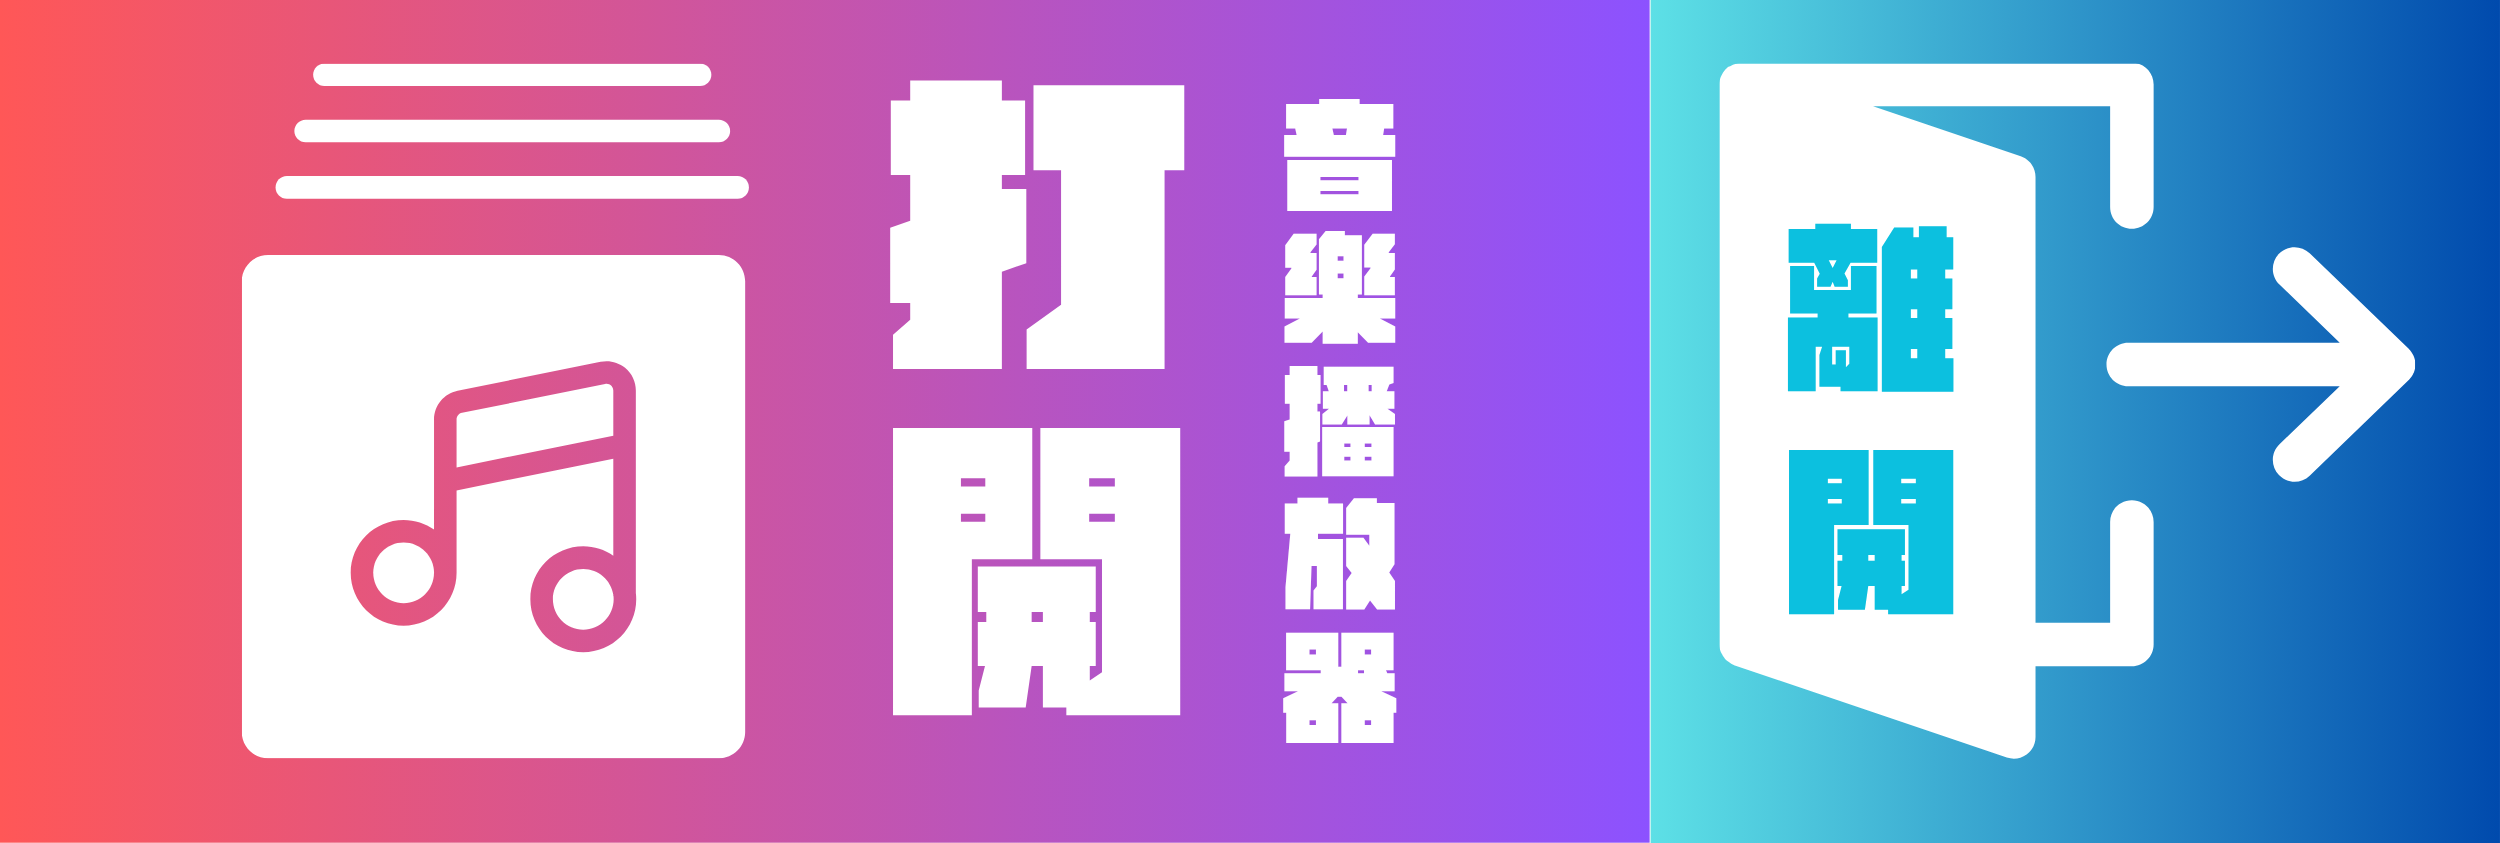
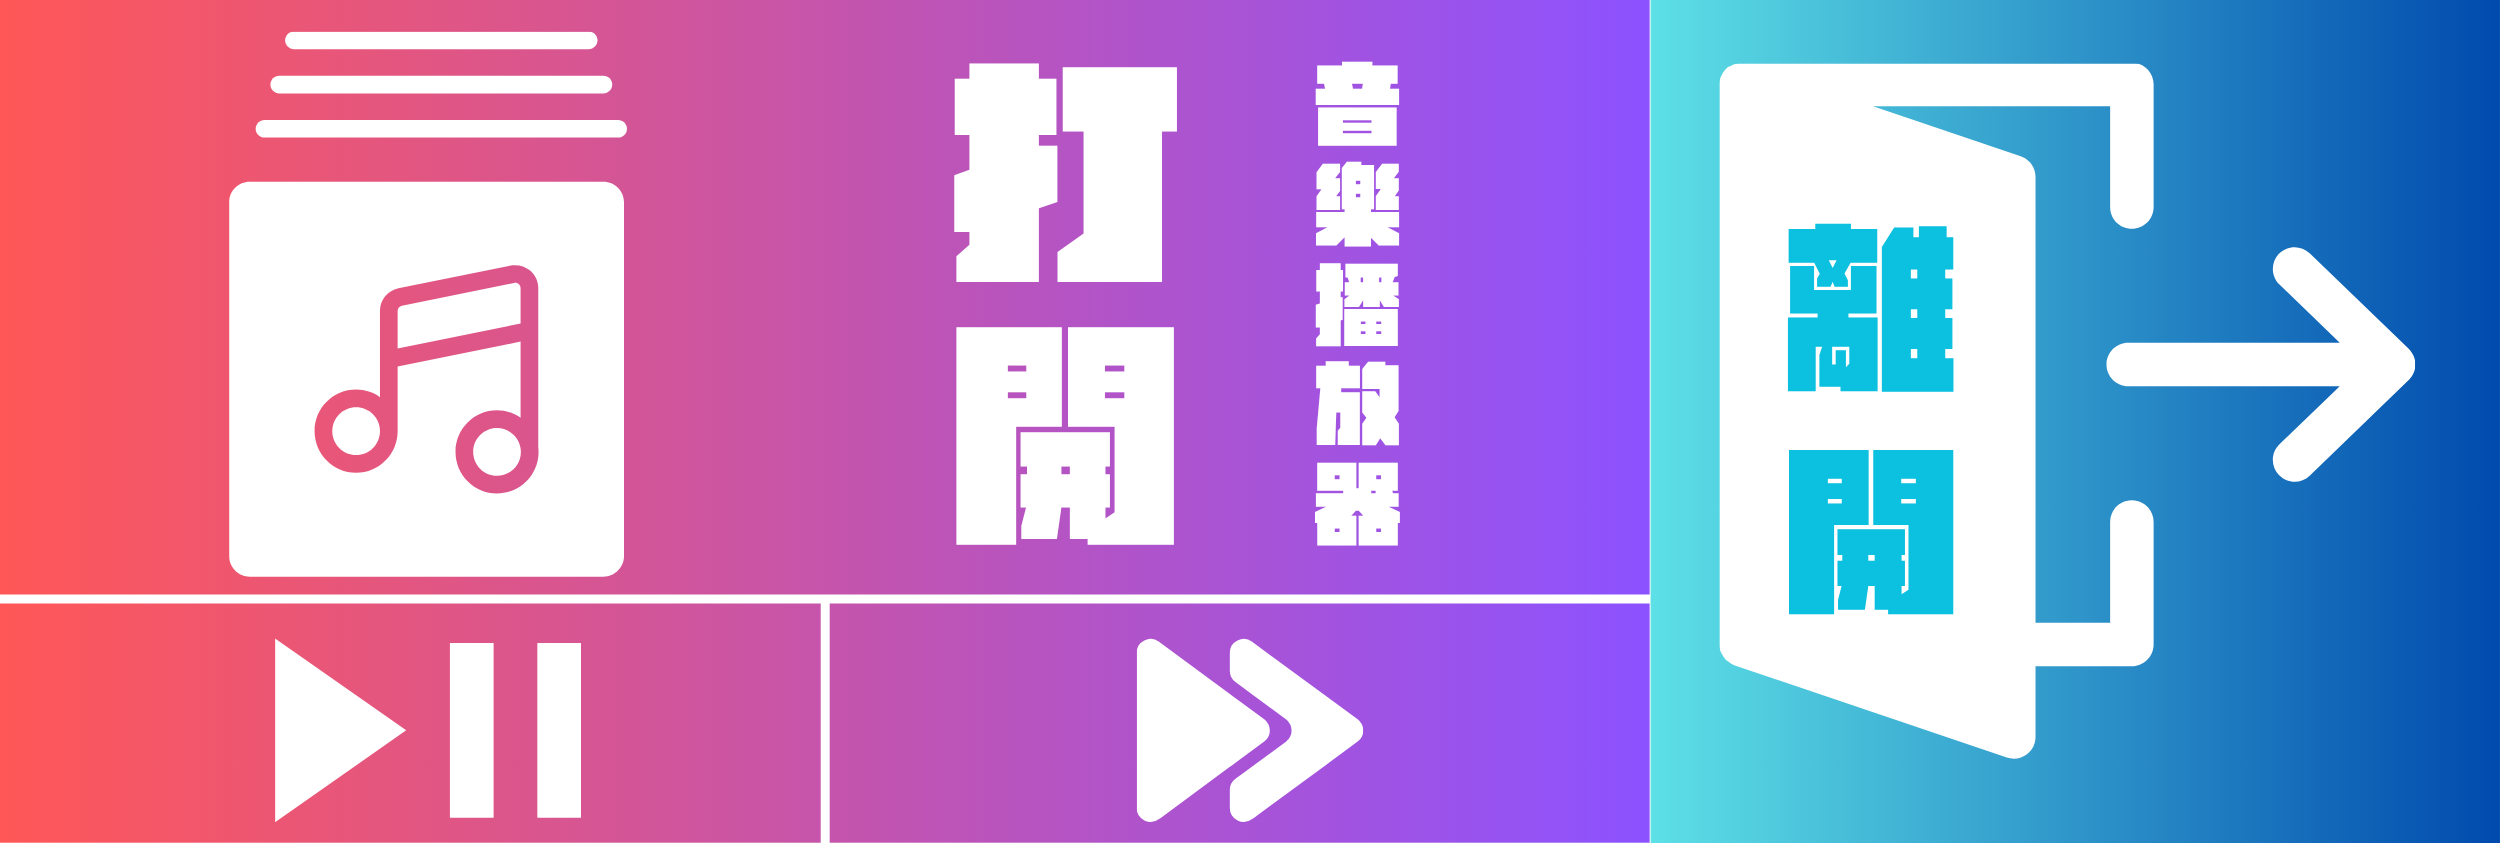
feat(line): add play/pause and skip song button with rich menu update (solve #15)

Changed region(s): [[0.0, 0.0308, 0.6552, 1.0]]

diff --git a/backend/line_bot.py b/backend/line_bot.py
@@ -130,6 +130,65 @@ def add_song_via_api(room_id: str, video_id: str, user_id: str, user_name: str, 
         return None
 
 
+def change_playback_state_via_api(room_id: str, user_id: str) -> bool | None:
+    """Change playback state via internal API call.
+    Return False if playback state is paused, True if playing, None if error.
+    """
+    try:
+        # Get the current room state to determine the current is_playing status
+        get_response = requests.get(
+            f"http://localhost:{config['api_endpoints_port']}/api/room/{room_id}"
+        )
+        if get_response.status_code != 200:
+            print(f"Failed to get room state: {get_response.status_code}")
+            return None
+
+        playback_state = get_response.json().get("playback_state", None)
+        currently_playing = playback_state.get("is_playing", None)
+        current_time = playback_state.get("current_time", None)
+        if playback_state is None or currently_playing is None or current_time is None:
+            print("Playback state is missing required fields.")
+            return None
+
+        # Send a POST request with the toggled state in the JSON body
+        new_playing_state = not currently_playing
+        response = requests.post(
+            f"http://localhost:{config['api_endpoints_port']}/api/room/{room_id}/playback",
+            params={"user_id": user_id},
+            json={"is_playing": new_playing_state, "current_time": current_time}
+        )
+
+        if response.status_code == 200:
+            return response.json().get('is_playing')
+        else:
+            print(f"Failed to change playback state: {response.status_code} - {response.text}")
+            return None
+
+    except requests.exceptions.RequestException as e:
+        print(f"Error changing playback state: {e}")
+        return None
+
+
+def skip_song_via_api(room_id: str, user_id: str) -> (bool, str | None):
+    """Skip current song via internal API call.
+    Return tuple (success, current_song) where success is True if song skipped,"""
+    try:
+        response = requests.post(
+            f"http://localhost:{config['api_endpoints_port']}/api/room/{room_id}/queue/next",
+            params={"user_id": user_id}
+        )
+        if response.status_code == 200:
+            return True, response.json().get('current_song', None)
+        elif response.status_code == 429:  # Throttle limit exceeded
+            return False, "Throttle limit exceeded"
+        else:
+            print(f"Failed to skip song: {response.status_code}")
+            return False, None
+    except Exception as e:
+        print(f"Error skipping song: {e}")
+        return False, None
+
+
 @app.delete("/api/room/leave")
 def leave_room(request: Request, user_id: str):
     """Leave room endpoint to remove user_rooms locally."""
@@ -470,6 +529,44 @@ async def handle_message(event):
                 reply_token=event.reply_token, messages=[reply_message]))
             return
 
+        # User in room and tap play/pause button
+        if message_received == "播放/暫停":
+            room_id = user_rooms[user_id]
+            is_playing = change_playback_state_via_api(room_id, user_id)
+
+            if is_playing is None:
+                reply_message = TextMessage(text="❌ 無法切換播放狀態，請稍後再試！")
+            elif is_playing:
+                reply_message = TextMessage(text="▶ 音樂已開始播放")
+            else:
+                reply_message = TextMessage(text="⏸ 音樂已暫停")
+
+            line_bot_api.reply_message(ReplyMessageRequest(
+                reply_token=event.reply_token, messages=[reply_message]))
+            return
+
+        # User in room and tap next song button
+        if message_received == "下一首歌曲":
+            room_id = user_rooms[user_id]
+            success, current_song = skip_song_via_api(room_id, user_id)
+
+            if success:
+                if current_song:
+                    reply_message = TextMessage(
+                        text=f"✅ 已切至下一首歌！\n🎵 {current_song['title']}")
+                else:
+                    reply_message = TextMessage(text="✅ 已切至下一首歌！")
+            else:
+                if current_song == "Throttle limit exceeded":
+                    reply_message = TextMessage(
+                        text="✅ 其他使用者已協助切歌！")
+                else:
+                    reply_message = TextMessage(text="❌ 無法跳過歌曲，請稍後再試！")
+
+            line_bot_api.reply_message(ReplyMessageRequest(
+                reply_token=event.reply_token, messages=[reply_message]))
+            return
+
         # Handle URL messages to check if it's a valid YouTube link
         if utils.is_url(message_received):
             if not utils.is_youtube_url(message_received):
@@ -728,14 +825,24 @@ def link_roomed_rich_menu(user_id: str, room_id: str):
             name="CarTunes Rich Menu",
             chat_bar_text="音樂播放器",
             areas=[
-                # Main area - opens website
+                # Open room website
                 RichMenuArea(
-                    bounds=RichMenuBounds(x=0, y=0, width=1600, height=843),
+                    bounds=RichMenuBounds(x=0, y=0, width=1650, height=600),
                     action=URIAction(uri=room_url)
+                ),
+                # Play/Pause button
+                RichMenuArea(
+                    bounds=RichMenuBounds(x=0, y=600, width=825, height=243),
+                    action=MessageAction(text="播放/暫停")
+                ),
+                # Next song button
+                RichMenuArea(
+                    bounds=RichMenuBounds(x=825, y=600, width=825, height=243),
+                    action=MessageAction(text="下一首歌曲")
                 ),
                 # Leave room button - right side
                 RichMenuArea(
-                    bounds=RichMenuBounds(x=1600, y=0, width=900, height=843),
+                    bounds=RichMenuBounds(x=1650, y=0, width=900, height=843),
                     action=MessageAction(text="離開房間")
                 )
             ]
